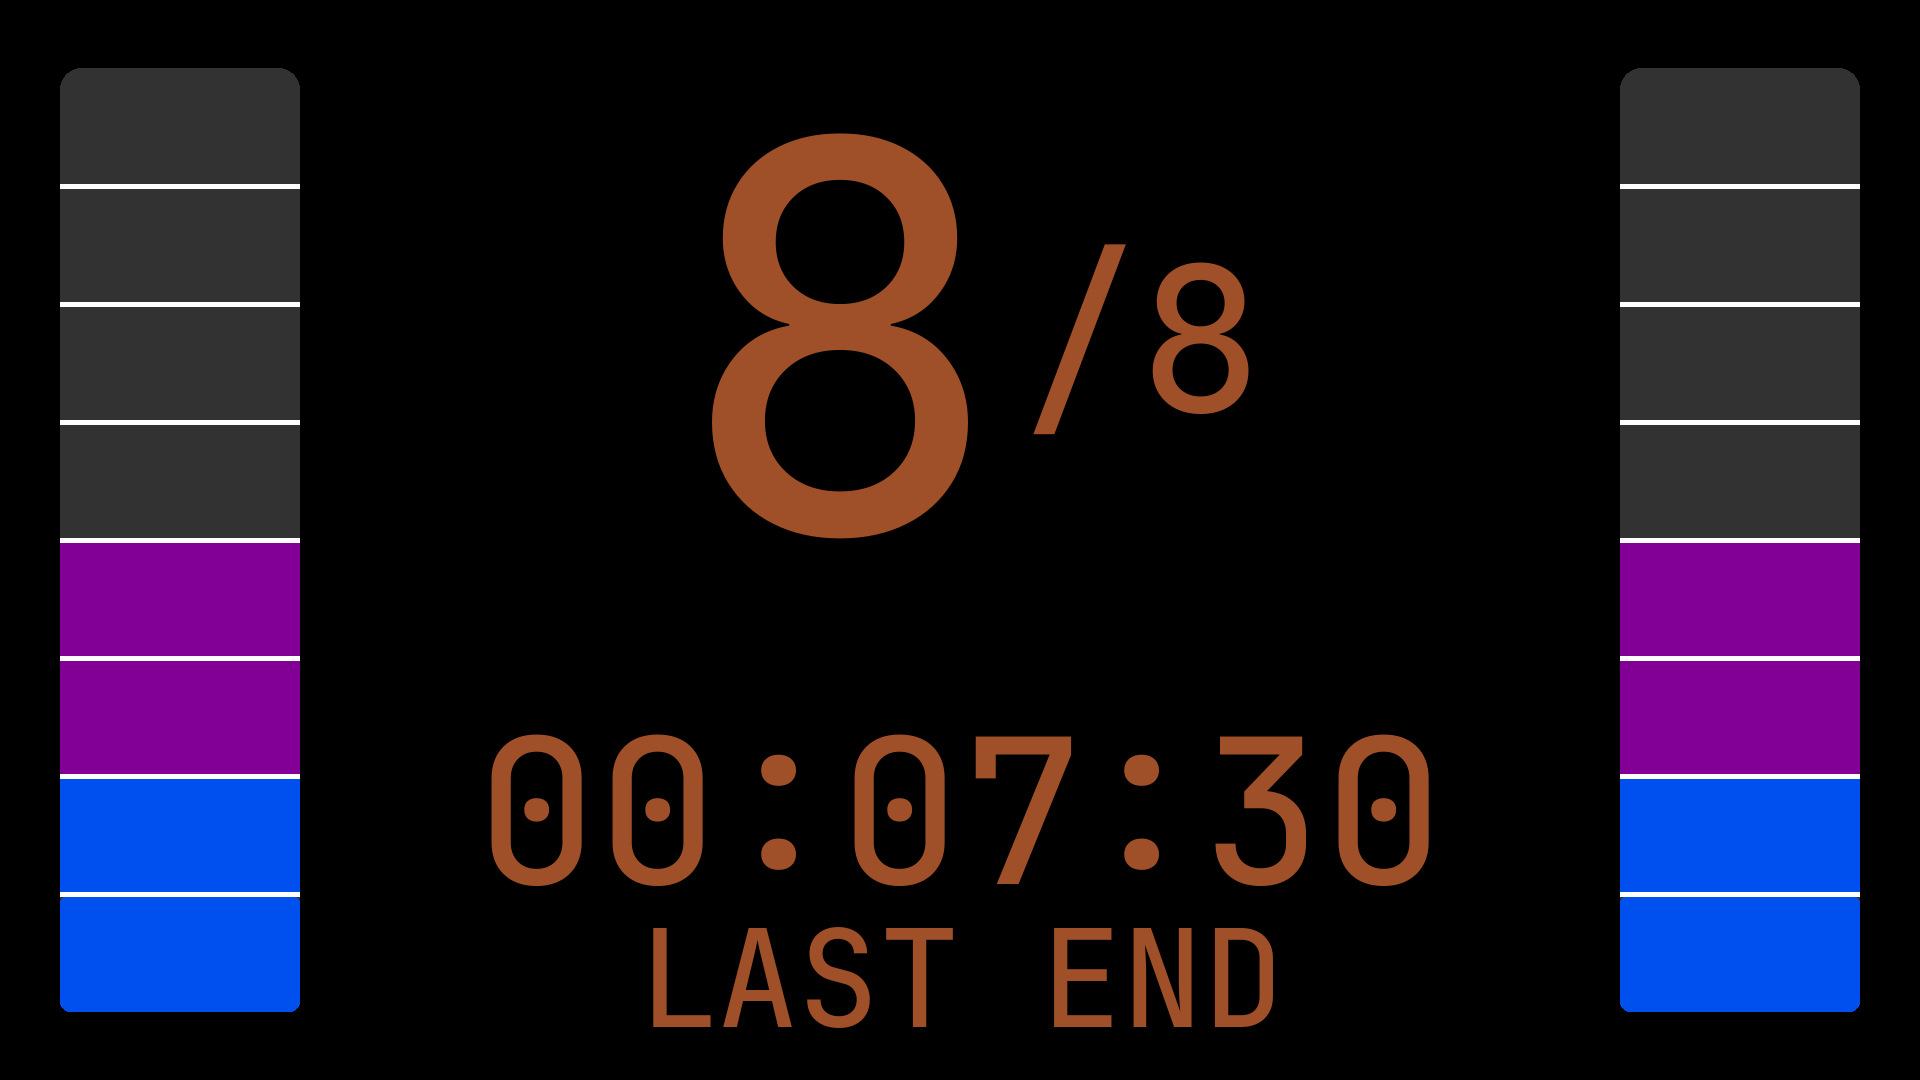
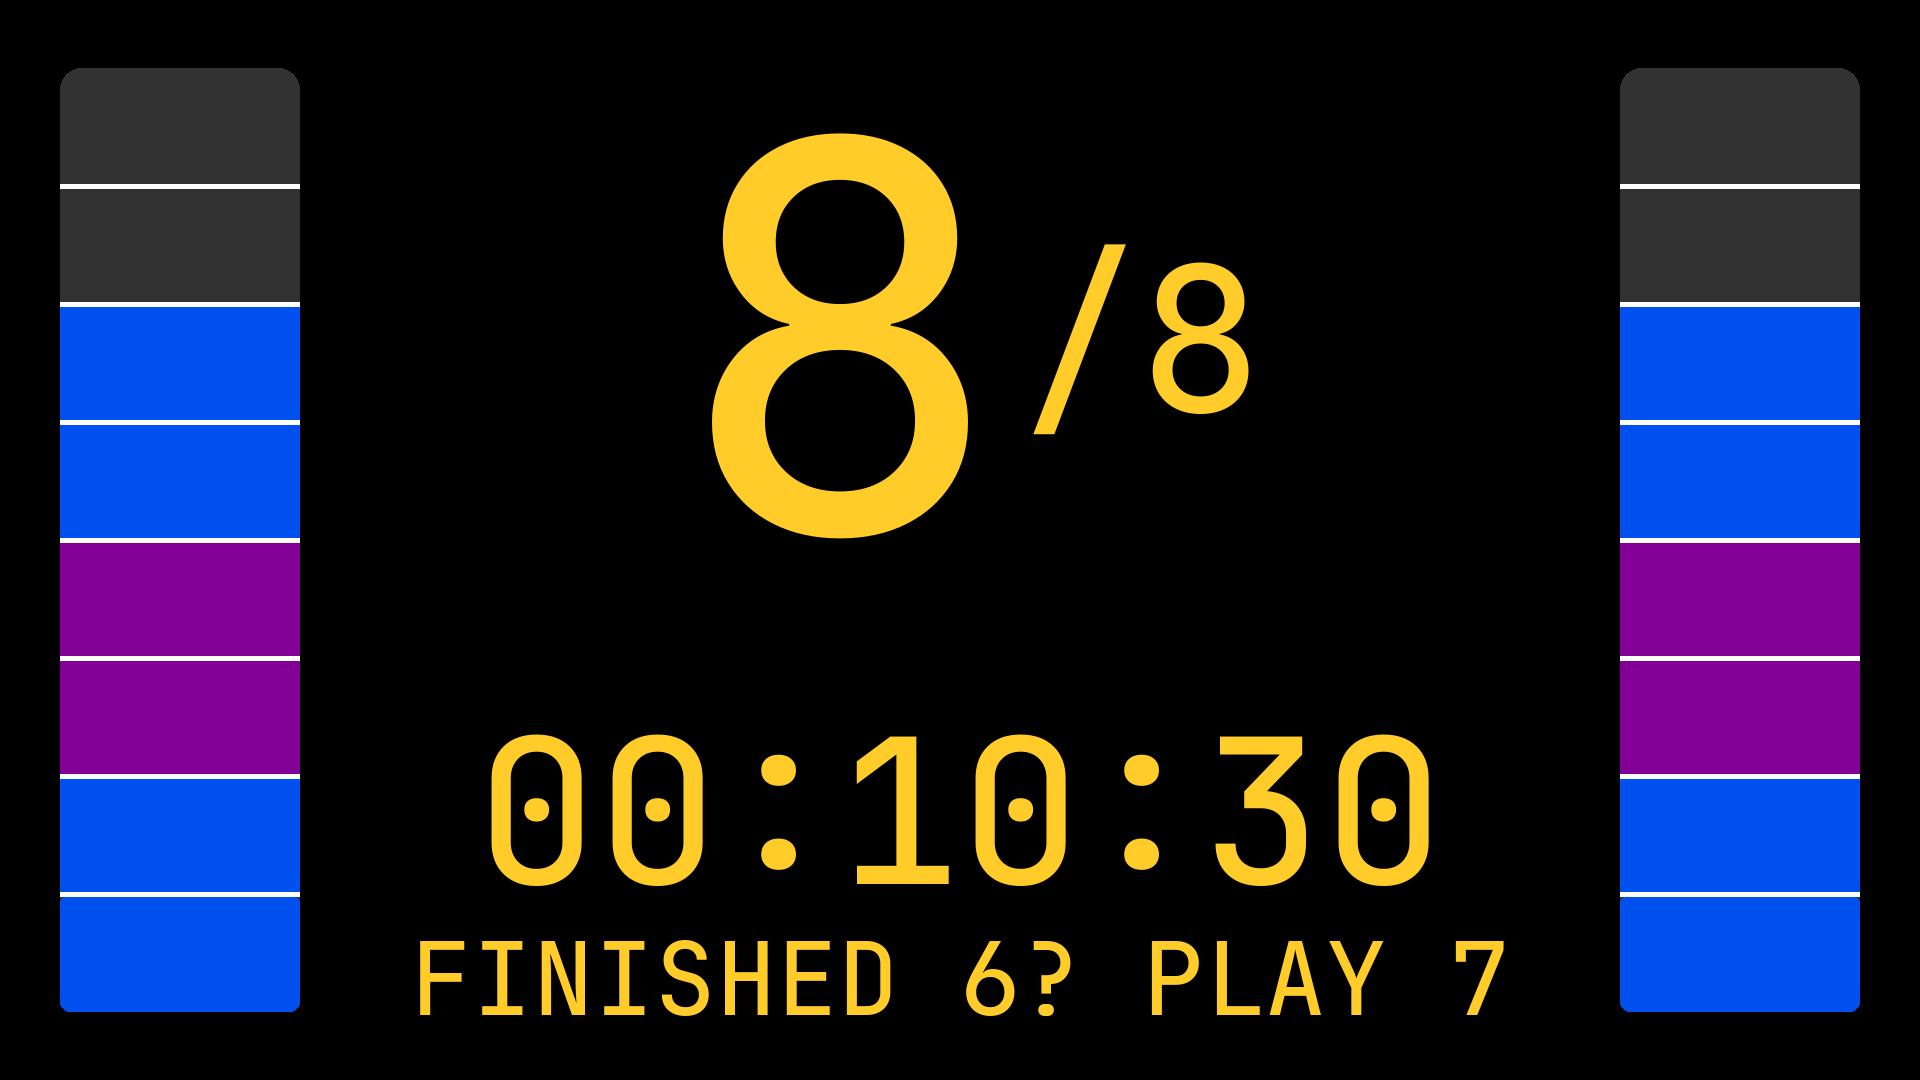
Enhance warning levels to occur at different times. They will now occur after 1/3 of the second to last end and last end have elapsed. Enhanced to display messages to indicate how many ends to play at each warning level. Enhanced front end unit tests to save failed tests.

diff --git a/app.py b/app.py
@@ -28,6 +28,7 @@ MESSAGE_TIME_LIMIT = 10
 MESSAGE_CHR_SOFT_LIMIT = 10
 MESSAGE_CHR_HARD_LIMIT = 20
 MESSAGE_LINE_LIMIT = 3
+WARNING_END_PERCENT = 0.334
 Color = None
 
 def timestamp():
@@ -160,6 +161,7 @@ class IceClock:
     self.fonts = {}
     self.fonts["timer"] = self.create_font(3, 16)
     self.fonts["last_end"] = self.create_font(2, 16)
+    self.fonts["warning"] = self.create_font(3, 32)
     self.fonts["end"] = self.create_font(1, 2)
     self.fonts["end_progress_label"] = self.create_font(1, 32)
     self.fonts["messages"] = self.create_font(3, 32)
@@ -208,12 +210,28 @@ class IceClock:
 
   @property
   def warning_level(self):
-    if self._end_number < self._server_config["num_ends"] - 1:
-      return None
-    elif self._end_number == self._server_config["num_ends"] - 1:
-      return 1
-    elif self._end_number >= self._server_config["num_ends"] and not self._server_config["allow_overtime"]:
-      return 2
+    uptime = self._uptime
+    end_number = self._end_number
+    game_type = self._server_config["game_type"]
+    num_ends = self._server_config["num_ends"]
+    time_per_end = self._server_config["time_per_end"]
+    allow_ot = self._server_config["allow_overtime"]
+
+    if game_type == "bonspiel":
+      if end_number < num_ends - 1:
+        return None
+      elif end_number == num_ends - 1:
+        return 1
+      elif end_number >= num_ends and not allow_ot:
+        return 2
+    elif game_type == "league":
+      if uptime < (num_ends - 2)*time_per_end + WARNING_END_PERCENT*time_per_end:
+        return None
+      elif uptime < (num_ends - 1)*time_per_end + WARNING_END_PERCENT*time_per_end:
+        return 1
+      elif end_number >= num_ends and not allow_ot:
+        return 2
+
     return -1
 
   def update_time(self):
@@ -269,8 +287,11 @@ class IceClock:
       text = self.fonts["last_end"].render("GAME OVER", True, color)
     elif self._server_config["game_type"] == "bonspiel" and self._uptime >= self._server_config["time_to_chime"]:
       text = self.fonts["last_end"].render("FINISH END +1", True, color)
-    elif is_last_end and not self._is_overtime:
-      text = self.fonts["last_end"].render("LAST END", True, color)
+    elif self.warning_level == 2 and not self._server_config["game_type"] == "bonspiel" and not self._is_overtime:
+      text = self.fonts["warning"].render("NO NEW ENDS", True, color)
+    elif self.warning_level == 1 and not self._server_config["game_type"] == "bonspiel" and not self._is_overtime:
+      msg = "FINISHED {:d}? PLAY {:d}".format(self._server_config["num_ends"]-2, self._server_config["num_ends"]-1)
+      text = self.fonts["warning"].render(msg, True, color)
     elif self._is_overtime:
       text = self.fonts["last_end"].render("OVERTIME", True, color)
     else:

diff --git a/test_app.py b/test_app.py
@@ -37,6 +37,7 @@ def render_app(clock, end_num, end_percentage):
     total_time = clock._server_config["count_in"]
     elapsed = 0
 
+  clock._uptime = elapsed
   clock._hours = int((total_time-elapsed) // 3600)
   clock._minutes = int(((total_time-elapsed) // 60) % 60)
   clock._seconds = int((total_time-elapsed) % 60)
@@ -75,7 +76,13 @@ class TestIceClock(unittest.TestCase):
       with open(golden_path, "wb") as outfile:
         outfile.write(img_io.getvalue())
       self.assertEqual(True, True)
-    self.assertImg(img_io, golden_path)
+
+    try:
+      self.assertImg(img_io, golden_path)
+    except AssertionError:
+      with open(os.path.splitext(golden_path)[0]+"_fail.png", "wb") as outfile:
+        outfile.write(img_io.getvalue())
+      self.assertEqual(True, False)
 
   @set_golden_path
   def test_first_end(self, golden_path=None):
@@ -99,13 +106,35 @@ class TestIceClock(unittest.TestCase):
   @set_golden_path
   def test_second_to_last(self, golden_path=None):
     end_num = server_config["num_ends"].value - 1
-    end_percentage = 0.5
+    end_percentage = 0.3
     img_io = render_app(self.clock, end_num, end_percentage)
     self.image_test(img_io, golden_path)
 
   @set_golden_path
   def test_last_end(self, golden_path=None):
     end_num = server_config["num_ends"].value
+    end_percentage = 0.3
+    img_io = render_app(self.clock, end_num, end_percentage)
+    self.image_test(img_io, golden_path)
+
+  @set_golden_path
+  def test_warning1(self, golden_path=None):
+    end_num = server_config["num_ends"].value - 1
+    end_percentage = 0.5
+    img_io = render_app(self.clock, end_num, end_percentage)
+    self.image_test(img_io, golden_path)
+
+  @set_golden_path
+  def test_warning2(self, golden_path=None):
+    end_num = server_config["num_ends"].value
+    end_percentage = 0.5
+    img_io = render_app(self.clock, end_num, end_percentage)
+    self.image_test(img_io, golden_path)
+
+  @set_golden_path
+  def test_warning1_6end(self, golden_path=None):
+    self.clock._server_config["num_ends"] = 6
+    end_num =  self.clock._server_config["num_ends"] - 1
     end_percentage = 0.5
     img_io = render_app(self.clock, end_num, end_percentage)
     self.image_test(img_io, golden_path)
